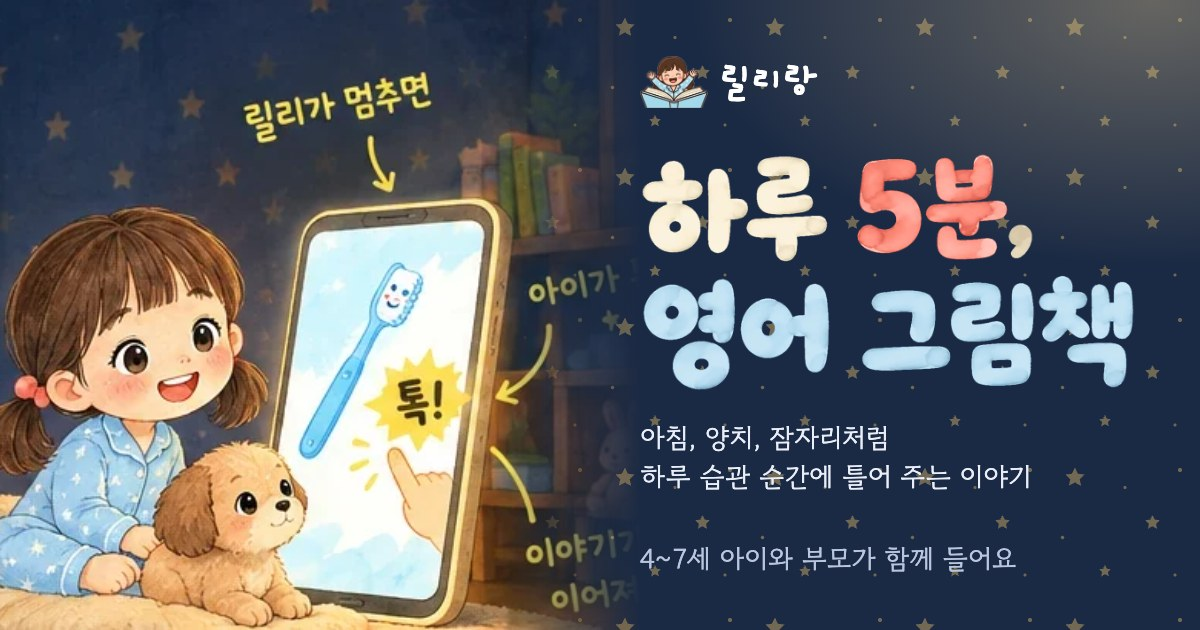
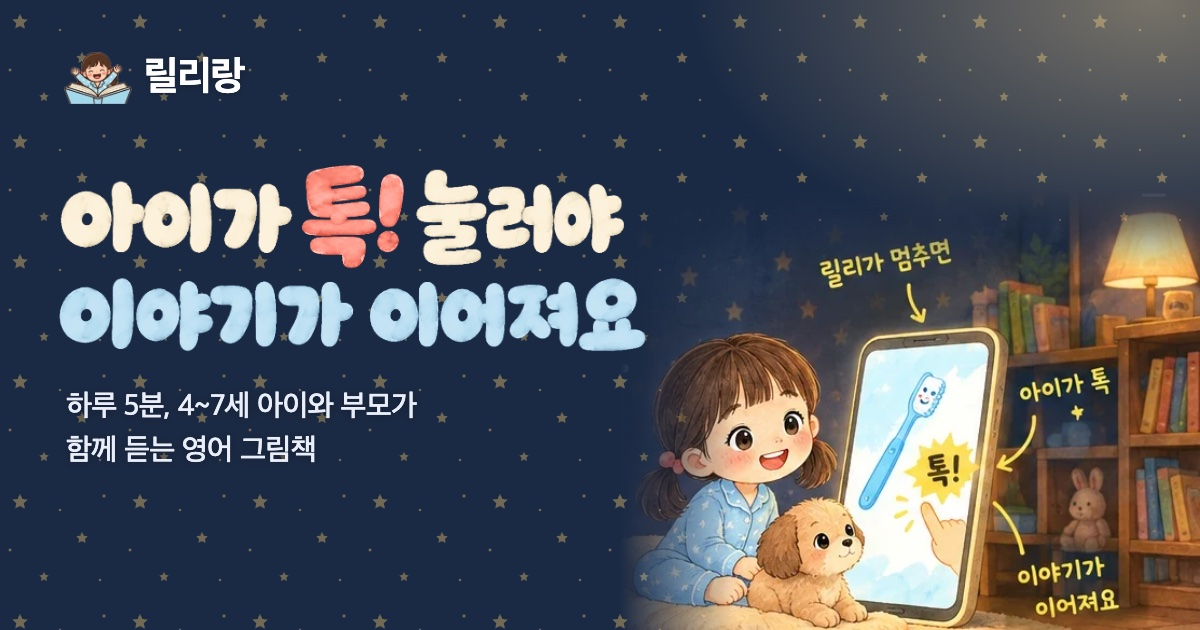
공유 썸네일을 시안 P150으로 교체하고 보드 기록 정리
- og.jpg를 P150(손글씨 제목과 톡 장면)으로 교체, 후보 P151, P152 보드 추가
- P140 잠금 카드 반영 확인, P62~P68 대체 메모, P120~P142 구현 경로 바로잡음

Refs #9

diff --git a/design/promo/shared/og-t8.css b/design/promo/shared/og-t8.css
@@ -1,0 +1,42 @@
+/* 공유 썸네일(og.jpg 1200x630) 시안 T8: /hello/ 첫 화면(P141, P142)과 같은 남색 별무늬 구석, 손글씨 제목.
+   카카오톡, 페이스북 미리보기에서 약 300px 폭으로 줄어도 제목이 읽히게 제목을 크게 둔다. 누르는 것이 없으니 노란색은 쓰지 않는다. */
+:root { --navy: #1b2a44; --navy-ink: #e9eef8; --navy-soft: #b9c6de; }
+html, body { margin: 0; }
+body { width: 1200px; height: 630px; overflow: hidden; }
+.og { position: relative; width: 1200px; height: 630px; overflow: hidden; color: var(--navy-ink); font-family: var(--font-body); background:
+  radial-gradient(55% 60% at 96% 0%, rgba(247,215,154,.42), rgba(247,215,154,0) 70%),
+  url(../assets/stars.svg) 0 0 / 120px 120px, var(--navy); }
+.og .brand { position: absolute; display: flex; align-items: center; gap: 12px; z-index: 2; }
+.og .brand img { height: 52px; width: auto; }
+.og .brand span { font-family: var(--font-hand); font-weight: 700; font-size: 40px; letter-spacing: -0.03em; color: var(--white); text-shadow: 0 1px 6px rgba(10,18,34,.5); }
+.og .title { position: absolute; z-index: 2; display: block; height: auto; }
+.og .sub { position: absolute; z-index: 2; margin: 0; font-weight: 500; color: var(--navy-ink); text-shadow: 0 1px 8px rgba(10,18,34,.6); letter-spacing: -0.02em; }
+
+/* A: 왼쪽 제목, 오른쪽 첫 화면 그림 한 장(가장자리 번짐) */
+.og.a .brand { left: 64px; top: 52px; }
+.og.a .title { left: 52px; top: 158px; width: 600px; }
+.og.a .sub { left: 66px; top: 386px; width: 560px; font-size: 30px; line-height: 1.45; }
+.og.a .art { position: absolute; right: 0; bottom: 0; width: 580px; height: auto;
+  -webkit-mask-image: linear-gradient(to right, transparent, #000 20%), linear-gradient(to bottom, transparent, #000 18%); -webkit-mask-composite: source-in;
+  mask-image: linear-gradient(to right, transparent, #000 20%), linear-gradient(to bottom, transparent, #000 18%); mask-composite: intersect; }
+
+/* B: 위 가운데 제목, 아래 그림 세 장(첫 화면에서 교대하는 세 장)을 종이 카드로 */
+.og.b .brand { left: 40px; top: 30px; }
+.og.b .brand img { height: 42px; }
+.og.b .brand span { font-size: 32px; }
+.og.b .title { left: 50%; top: 34px; width: 690px; margin-left: -345px; }
+.og.b .row { position: absolute; left: 0; right: 0; top: 330px; display: flex; justify-content: center; gap: 30px; z-index: 1; }
+.og.b .card { width: 316px; height: 240px; padding: 8px; background: var(--white); border-radius: 14px; box-shadow: 0 10px 26px rgba(6,12,26,.45); }
+.og.b .card img { display: block; width: 100%; height: 100%; object-fit: cover; border-radius: 9px; }
+.og.b .card:nth-child(1) { transform: rotate(-3deg) translateY(10px); }
+.og.b .card:nth-child(3) { transform: rotate(3deg) translateY(10px); }
+.og.b .sub { left: 0; right: 0; top: 272px; text-align: center; font-size: 26px; }
+
+/* C: 큰 제목 하나와 아래 이야기 책 표지 줄. 가장 작게 줄어도 읽히는 쪽 */
+.og.c .brand { left: 50%; top: 40px; margin-left: -88px; }
+.og.c .title { left: 50%; top: 112px; width: 860px; margin-left: -430px; }
+.og.c .sub { left: 0; right: 0; top: 408px; text-align: center; font-size: 32px; }
+.og.c .shelf { position: absolute; left: 0; right: 0; bottom: 30px; display: flex; justify-content: center; gap: 14px; }
+.og.c .shelf img { width: 150px; height: 117px; object-fit: cover; border-radius: 12px; border: 5px solid var(--white); box-shadow: 0 8px 20px rgba(6,12,26,.45); }
+.og.c .shelf img:nth-child(odd) { transform: rotate(-2deg); }
+.og.c .shelf img:nth-child(even) { transform: rotate(2deg) translateY(8px); }

diff --git a/design/promo/boards/P152-OgT8Shelf.html b/design/promo/boards/P152-OgT8Shelf.html
@@ -1,0 +1,22 @@
+<!doctype html>
+<html lang="ko">
+<head>
+<meta charset="utf-8">
+<meta name="viewport" content="width=1200">
+<title>P152 공유 썸네일 T8 C</title>
+<link rel="preconnect" href="https://fonts.googleapis.com">
+<link rel="stylesheet" href="https://fonts.googleapis.com/css2?family=Gaegu:wght@700&family=Jua&family=Noto+Sans+KR:wght@400;500;700&display=swap">
+<link rel="stylesheet" href="../shared/tokens.css">
+<link rel="stylesheet" href="../shared/og-t8.css">
+</head>
+<body>
+<main class="og c">
+  <div class="brand"><img src="../assets/emblem.png" alt=""><span>릴리랑</span></div>
+  <img class="title" src="../assets/t8-landing-title.webp" width="1323" height="441" alt="아이가 톡! 눌러야 이야기가 이어져요">
+  <p class="sub">하루 5분, 4~7세 아이와 함께 듣는 영어 그림책</p>
+  <div class="shelf">
+    <img src="../assets/t4-ep-wake.webp" alt=""><img src="../assets/t4-ep-wash.webp" alt=""><img src="../assets/t4-ep-dress.webp" alt=""><img src="../assets/t4-ep-eat.webp" alt=""><img src="../assets/t4-ep-brush.webp" alt=""><img src="../assets/t4-ep-bath.webp" alt=""><img src="../assets/t4-ep-sleep.webp" alt="">
+  </div>
+</main>
+</body>
+</html>

diff --git a/design/promo/boards/P151-OgT8Three.html b/design/promo/boards/P151-OgT8Three.html
@@ -1,0 +1,24 @@
+<!doctype html>
+<html lang="ko">
+<head>
+<meta charset="utf-8">
+<meta name="viewport" content="width=1200">
+<title>P151 공유 썸네일 T8 B</title>
+<link rel="preconnect" href="https://fonts.googleapis.com">
+<link rel="stylesheet" href="https://fonts.googleapis.com/css2?family=Gaegu:wght@700&family=Jua&family=Noto+Sans+KR:wght@400;500;700&display=swap">
+<link rel="stylesheet" href="../shared/tokens.css">
+<link rel="stylesheet" href="../shared/og-t8.css">
+</head>
+<body>
+<main class="og b">
+  <div class="brand"><img src="../assets/emblem.png" alt=""><span>릴리랑</span></div>
+  <img class="title" src="../assets/t8-landing-title.webp" width="1323" height="441" alt="아이가 톡! 눌러야 이야기가 이어져요">
+  <p class="sub">하루 5분, 4~7세 아이와 함께 듣는 영어 그림책</p>
+  <div class="row">
+    <div class="card"><img src="../assets/t6-hero.webp" alt=""></div>
+    <div class="card"><img src="../assets/t6-hero-2.webp" alt=""></div>
+    <div class="card"><img src="../assets/t6-hero-3.webp" alt=""></div>
+  </div>
+</main>
+</body>
+</html>

diff --git a/design/promo/boards/P150-OgT8Hero.html b/design/promo/boards/P150-OgT8Hero.html
@@ -1,0 +1,20 @@
+<!doctype html>
+<html lang="ko">
+<head>
+<meta charset="utf-8">
+<meta name="viewport" content="width=1200">
+<title>P150 공유 썸네일 T8 A</title>
+<link rel="preconnect" href="https://fonts.googleapis.com">
+<link rel="stylesheet" href="https://fonts.googleapis.com/css2?family=Gaegu:wght@700&family=Jua&family=Noto+Sans+KR:wght@400;500;700&display=swap">
+<link rel="stylesheet" href="../shared/tokens.css">
+<link rel="stylesheet" href="../shared/og-t8.css">
+</head>
+<body>
+<main class="og a">
+  <div class="brand"><img src="../assets/emblem.png" alt=""><span>릴리랑</span></div>
+  <img class="title" src="../assets/t8-landing-title.webp" width="1323" height="441" alt="아이가 톡! 눌러야 이야기가 이어져요">
+  <p class="sub">하루 5분, 4~7세 아이와 부모가<br>함께 듣는 영어 그림책</p>
+  <img class="art" src="../assets/t6-hero.webp" width="538" height="410" alt="릴리와 비스킷이 빛나는 휴대폰 속 칫솔을 톡 누르는 그림">
+</main>
+</body>
+</html>
